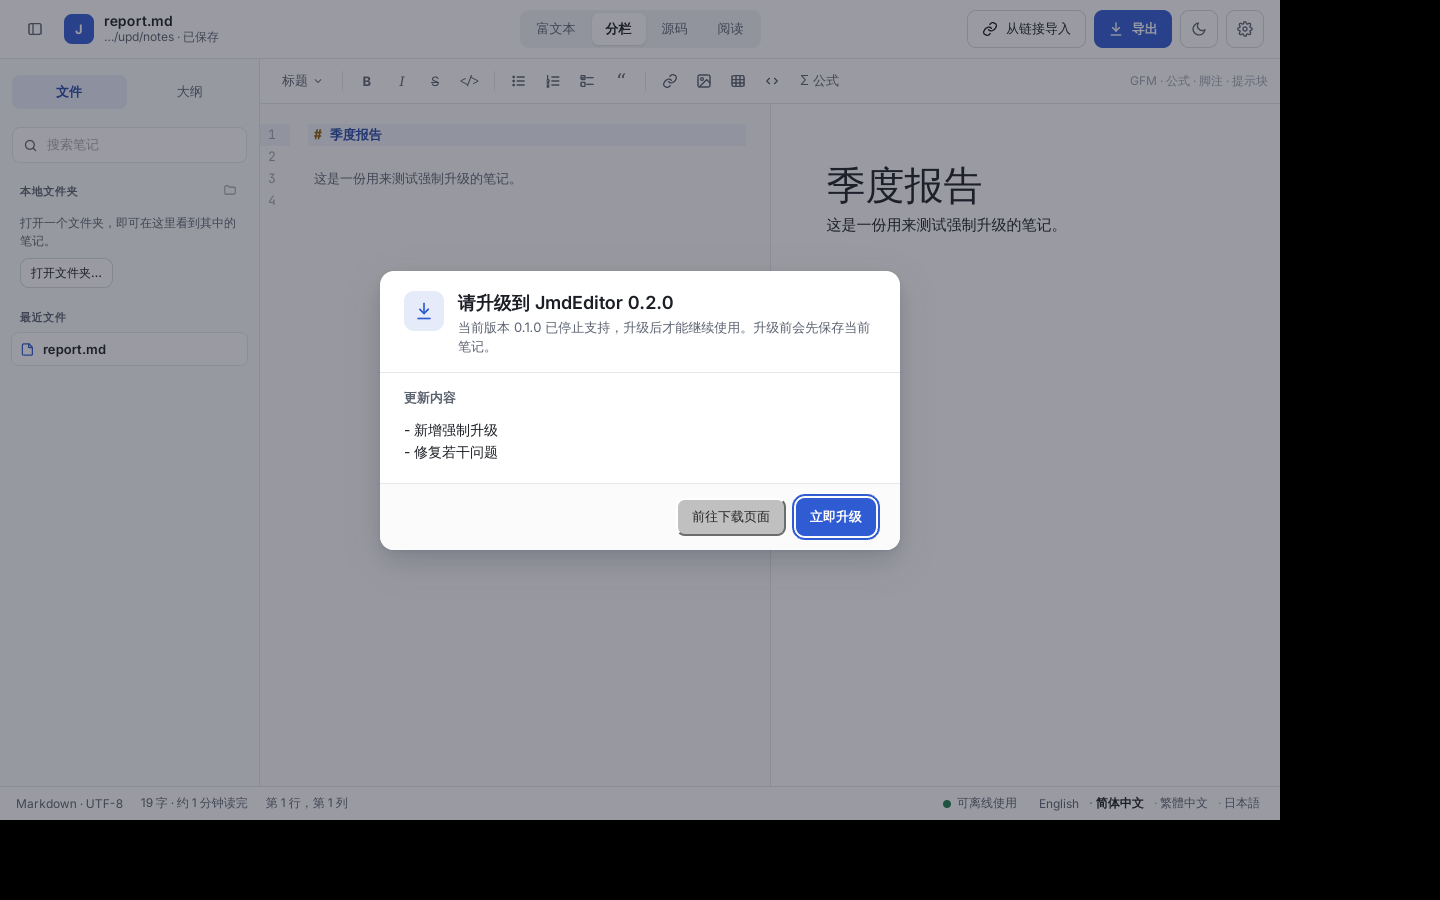
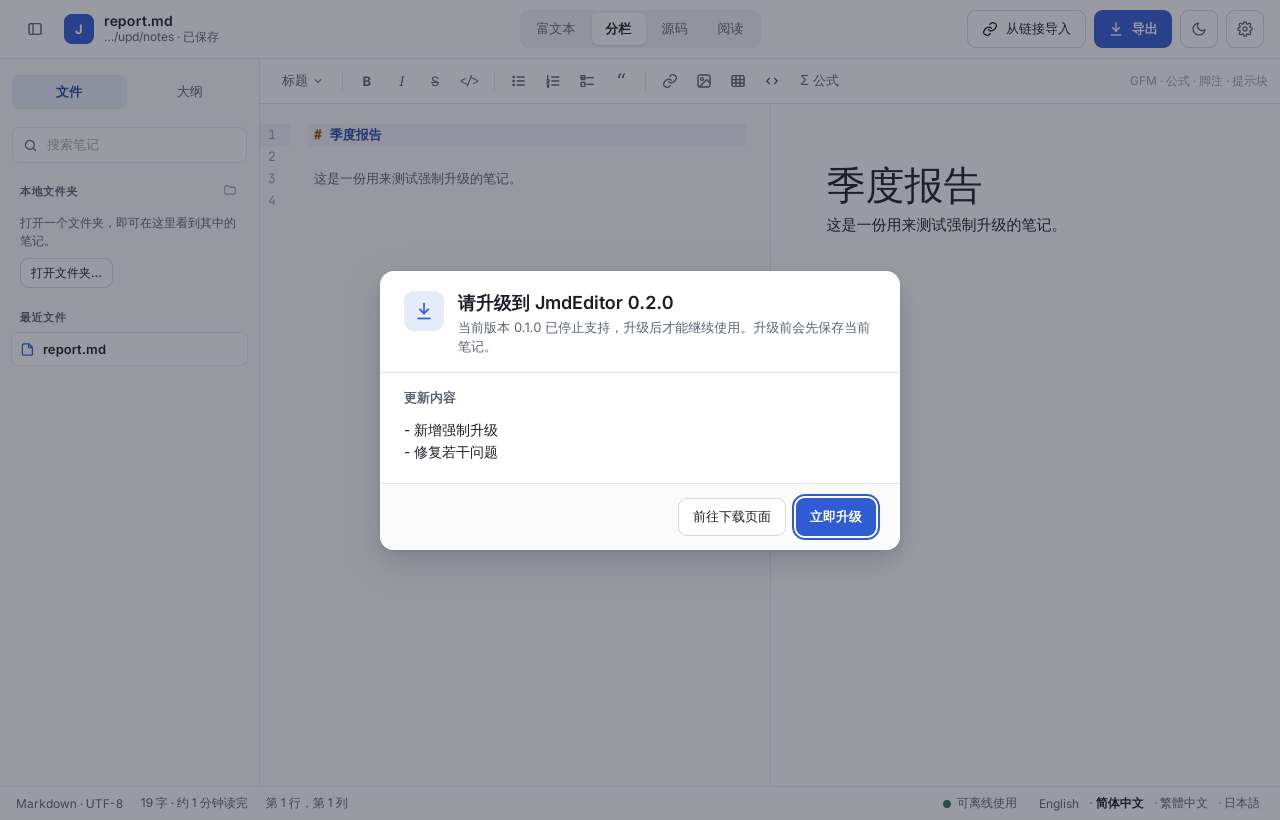
Show link-import hints in the interface language; refresh update dialog screenshot
The resolver's notes ("Will fetch the raw file from ...") were shown in
English in every language. The import dialog now maps them to translated
strings in all four languages and falls back to the original text.

Claude-Session: https://claude.ai/code/session_01Szpb5jUmqix6uAfB4zfo3N

diff --git a/apps/desktop/src/components/ImportDialog.vue b/apps/desktop/src/components/ImportDialog.vue
@@ -2,13 +2,29 @@
 import { computed, onBeforeUnmount, ref, watch } from 'vue'
 
 import RichEditor from '../editor/RichEditor.vue'
-import { errorText, formatBytes, t } from '../i18n'
+import { errorText, formatBytes, t, type Key } from '../i18n'
 import { analyze } from '../lib/analyze'
 import { platform } from '../platform'
 import { applyImport, closeDialog, state, toast, updateSettings } from '../store'
 import type { ImportResult, Resolved } from '../types'
 import BaseDialog from './BaseDialog.vue'
 import Icon from './Icon.vue'
+
+/** The resolver's notes are English; show them in the interface language. */
+const NOTE_KEYS: Record<string, Key> = {
+  'Will fetch the raw file from raw.githubusercontent.com': 'import.note.githubRaw',
+  'Will fetch the repository README': 'import.note.readme',
+  'Raw GitHub file': 'import.note.rawGitHub',
+  "Will fetch the gist's first file": 'import.note.gistFirst',
+  'Raw gist file': 'import.note.rawGist',
+  'Will fetch the raw file from Gitee': 'import.note.giteeRaw',
+  'Raw Gitee file': 'import.note.rawGitee',
+  'Will fetch the raw file from GitLab': 'import.note.gitlabRaw',
+  'Raw GitLab file': 'import.note.rawGitLab',
+  'Markdown file': 'import.note.markdown',
+  'The main article will be converted to Markdown': 'import.note.article',
+}
+const noteText = (note: string) => (NOTE_KEYS[note] ? t(NOTE_KEYS[note]) : note)
 
 const url = ref(state.importPrefill)
 state.importPrefill = ''
@@ -122,7 +138,7 @@ async function paste() {
           </div>
           <div v-if="resolved" class="detected">
             <span class="pill"><Icon name="check" :size="13" />{{ t('import.detected', { kind: t(`import.kind.${resolved.kind}`) }) }}</span>
-            <span class="hint">{{ resolved.note }}</span>
+            <span class="hint">{{ noteText(resolved.note) }}</span>
           </div>
           <p v-else-if="resolveError" class="err">{{ resolveError }}</p>
         </div>

diff --git a/apps/desktop/src/i18n/ja.ts b/apps/desktop/src/i18n/ja.ts
@@ -82,6 +82,17 @@ export const ja: Messages = {
   'import.kind.gist': 'Gist',
   'import.kind.rawMarkdown': 'Markdown ファイル',
   'import.kind.webPage': 'Web ページ',
+  'import.note.githubRaw': 'raw.githubusercontent.com から元のファイルを取得します',
+  'import.note.readme': 'リポジトリの README を取得します',
+  'import.note.rawGitHub': 'GitHub の元ファイル',
+  'import.note.gistFirst': 'Gist の最初のファイルを取得します',
+  'import.note.rawGist': 'Gist の元ファイル',
+  'import.note.giteeRaw': 'Gitee から元のファイルを取得します',
+  'import.note.rawGitee': 'Gitee の元ファイル',
+  'import.note.gitlabRaw': 'GitLab から元のファイルを取得します',
+  'import.note.rawGitLab': 'GitLab の元ファイル',
+  'import.note.markdown': 'Markdown ファイル',
+  'import.note.article': '本文を Markdown に変換します',
   'import.sources': '対応している取り込み元',
   'import.src.repos': 'GitHub · Gitee · GitLab',
   'import.src.reposHint': 'blob リンクは元ファイルに変換',

diff --git a/apps/desktop/src/i18n/zh-CN.ts b/apps/desktop/src/i18n/zh-CN.ts
@@ -82,6 +82,17 @@ export const zhCN: Messages = {
   'import.kind.gist': 'Gist',
   'import.kind.rawMarkdown': 'Markdown 文件',
   'import.kind.webPage': '网页',
+  'import.note.githubRaw': '将从 raw.githubusercontent.com 获取原始文件',
+  'import.note.readme': '将获取仓库的 README',
+  'import.note.rawGitHub': 'GitHub 原始文件',
+  'import.note.gistFirst': '将获取 Gist 中的第一个文件',
+  'import.note.rawGist': 'Gist 原始文件',
+  'import.note.giteeRaw': '将从 Gitee 获取原始文件',
+  'import.note.rawGitee': 'Gitee 原始文件',
+  'import.note.gitlabRaw': '将从 GitLab 获取原始文件',
+  'import.note.rawGitLab': 'GitLab 原始文件',
+  'import.note.markdown': 'Markdown 文件',
+  'import.note.article': '正文将被转换为 Markdown',
   'import.sources': '支持的来源',
   'import.src.repos': 'GitHub · Gitee · GitLab',
   'import.src.reposHint': 'blob 链接自动转为原始文件',

diff --git a/apps/desktop/src/i18n/zh-TW.ts b/apps/desktop/src/i18n/zh-TW.ts
@@ -82,6 +82,17 @@ export const zhTW: Messages = {
   'import.kind.gist': 'Gist',
   'import.kind.rawMarkdown': 'Markdown 檔案',
   'import.kind.webPage': '網頁',
+  'import.note.githubRaw': '將從 raw.githubusercontent.com 取得原始檔案',
+  'import.note.readme': '將取得儲存庫的 README',
+  'import.note.rawGitHub': 'GitHub 原始檔案',
+  'import.note.gistFirst': '將取得 Gist 中的第一個檔案',
+  'import.note.rawGist': 'Gist 原始檔案',
+  'import.note.giteeRaw': '將從 Gitee 取得原始檔案',
+  'import.note.rawGitee': 'Gitee 原始檔案',
+  'import.note.gitlabRaw': '將從 GitLab 取得原始檔案',
+  'import.note.rawGitLab': 'GitLab 原始檔案',
+  'import.note.markdown': 'Markdown 檔案',
+  'import.note.article': '正文將被轉換為 Markdown',
   'import.sources': '支援的來源',
   'import.src.repos': 'GitHub · Gitee · GitLab',
   'import.src.reposHint': 'blob 連結會轉為原始檔案',

diff --git a/apps/desktop/src/i18n/en.ts b/apps/desktop/src/i18n/en.ts
@@ -80,6 +80,17 @@ export const en = {
   'import.kind.gist': 'Gist',
   'import.kind.rawMarkdown': 'Markdown file',
   'import.kind.webPage': 'Web page',
+  'import.note.githubRaw': 'Will fetch the raw file from raw.githubusercontent.com',
+  'import.note.readme': 'Will fetch the repository README',
+  'import.note.rawGitHub': 'Raw GitHub file',
+  'import.note.gistFirst': "Will fetch the gist's first file",
+  'import.note.rawGist': 'Raw gist file',
+  'import.note.giteeRaw': 'Will fetch the raw file from Gitee',
+  'import.note.rawGitee': 'Raw Gitee file',
+  'import.note.gitlabRaw': 'Will fetch the raw file from GitLab',
+  'import.note.rawGitLab': 'Raw GitLab file',
+  'import.note.markdown': 'Markdown file',
+  'import.note.article': 'The main article will be converted to Markdown',
   'import.sources': 'Supported sources',
   'import.src.repos': 'GitHub · Gitee · GitLab',
   'import.src.reposHint': 'blob links become raw files',
